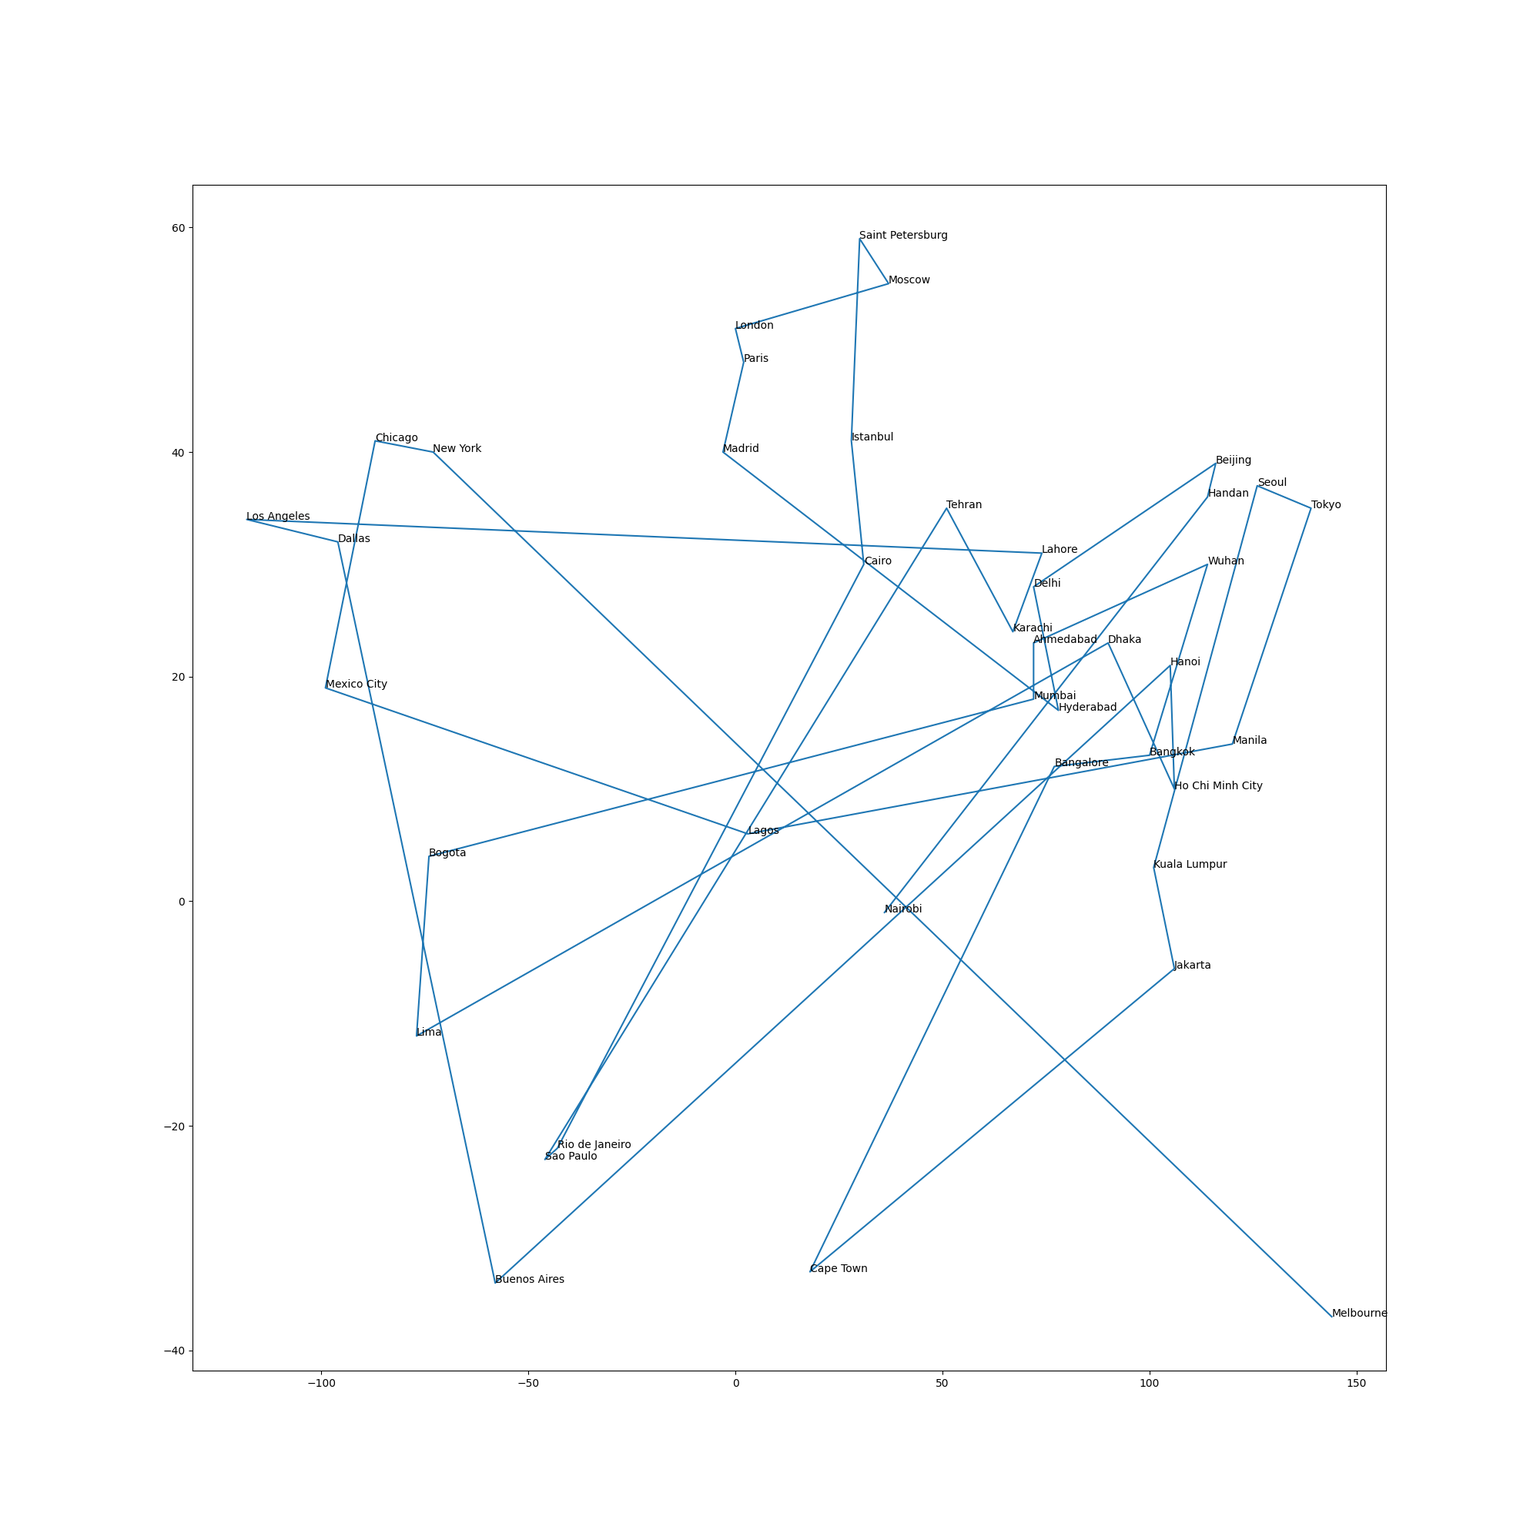
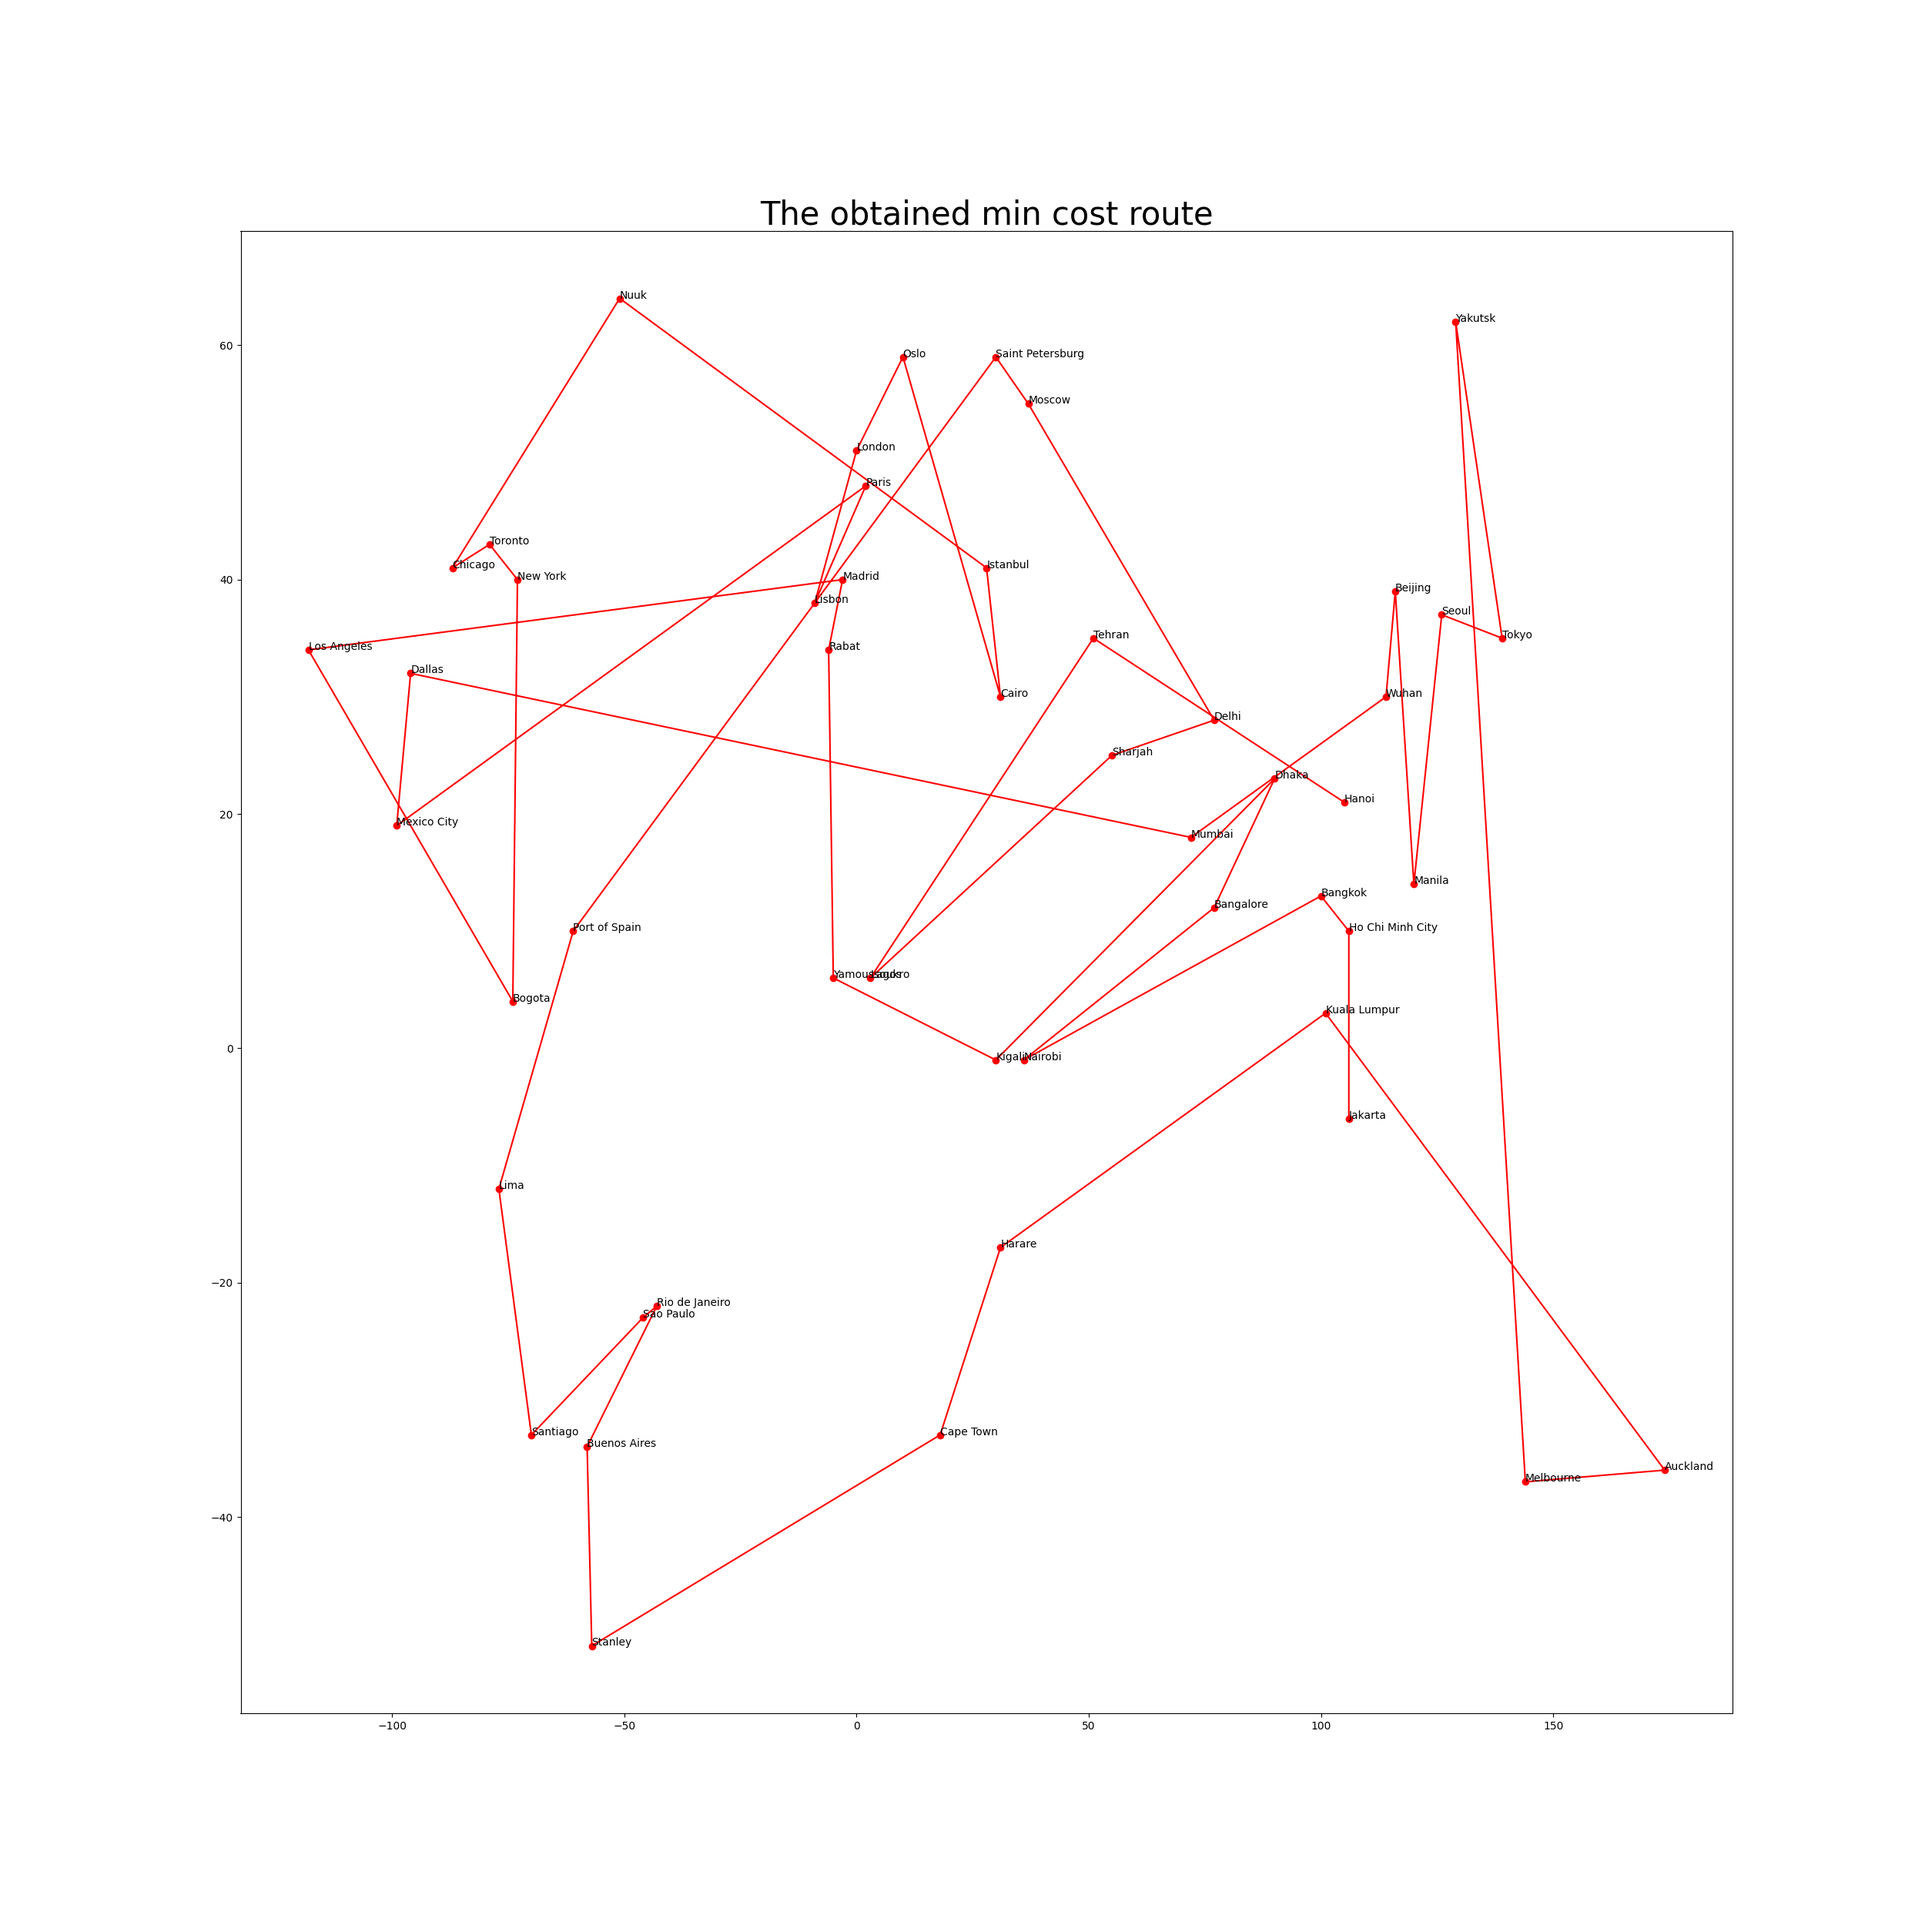
finalised

diff --git a/main.py b/main.py
@@ -4,8 +4,8 @@ from models import City
 from plot import plot_cities, plot_cost, plot_route
 import copy
 
-EPOCHS = 5000
-CONVERGENCE_VALUE = 20
+EPOCHS = 2500
+CONVERGENCE_VALUE = 12
 def main():
     """
     Main function
@@ -13,51 +13,56 @@ def main():
     src = City("Delhi",int(72.33),int(28.66))
     # Get input from file
     input_data = getInputFromFile()
-    # Generate random population
-    population = generate_random_population(INIT_POPULATION_SIZE,input_data,src)
-    # Print population with probabilities
-    probs = fitness_function(population)
-    maxx = max(probs)
-    # for i in range(len(probs)):
-    #     if probs[i]==maxx:
-            # print(population[i])
-            # plot_cities(population[i])
-    # print(probs)
-    # print(population)
-    # print(select_parents(population,probs))
-    # given fitness values, population 
-    # select parents and produce new population until termination condition is met
-    costs = []
-    last_costs = [None]*CONVERGENCE_VALUE
-    k = 0
-    for i in range(EPOCHS):
-        if i > CONVERGENCE_VALUE:
-            if checkConvergence(last_costs):
-                print(population[idx])
-                # print(population)
-                plot_cost([j for j in range(k)],costs)
-                plot_route(population[idx])
-                # print(k)
-                # print(costs)
-                break
-        children = generateChildPop(copy.deepcopy(population),probs,src)
-        # for p in children:
-        #     if p[0]!=src:
-        #         print("IN LOOP")
-        #         print(population)
-        population = copy.deepcopy(children)
-        costList = list(map(fitness_function_calc,copy.deepcopy(children)))
-        minCost = min(costList)
-        idx = costList.index(minCost)
-        costs.append(minCost)
-        print("epoch {0}, fitness - {1}, {2}".format(i,max(fitness_function(copy.deepcopy(children))),minCost))
-        last_costs[i%CONVERGENCE_VALUE] = minCost
-        k+=1
-    # print(population[idx])
-    # print(population)
-    plot_cost([i for i in range(k)],costs)
-    plot_route(population[idx])
-
+    best_route = []
+    best_cost = 9999999999
+    for run in range(5):
+        print("RUN1")
+        # Generate random population
+        population = generate_random_population(INIT_POPULATION_SIZE,input_data,src)
+        # Print population with probabilities
+        probs = fitness_function(population)
+        # maxx = max(probs)
+        # for i in range(len(probs)):
+        #     if probs[i]==maxx:
+                # print(population[i])
+                # plot_cities(population[i])
+        # print(probs)
+        # print(population)
+        # print(select_parents(population,probs))
+        # given fitness values, population 
+        # select parents and produce new population until termination condition is met
+        costs = []
+        last_costs = [None]*CONVERGENCE_VALUE
+        k = 0
+        for i in range(EPOCHS):
+            if i > CONVERGENCE_VALUE:
+                if checkConvergence(last_costs): 
+                    # plot_cost([j for j in range(k)],costs)
+                    # plot_route(population[idx])
+                    if best_cost> minCost:
+                        best_cost = minCost
+                        best_route = population[idx]
+                        plot_cost([i for i in range(k)],costs)
+                    break
+            children = generateChildPop(copy.deepcopy(population),probs,src)
+            population = copy.deepcopy(children)
+            costList = list(map(fitness_function_calc,copy.deepcopy(children)))
+            minCost = min(costList)
+            idx = costList.index(minCost)
+            costs.append(minCost)
+            print("epoch {0}, fitness - {1}, {2}".format(i,max(fitness_function(copy.deepcopy(children))),minCost))
+            last_costs[i%CONVERGENCE_VALUE] = minCost
+            k+=1
+            if best_cost> minCost:
+                best_cost = minCost
+                best_route = population[idx]
+                plot_cost([i for i in range(k)],costs)
+        # print(population[idx])
+        # print(population)
+        
+    print(best_cost)
+    print(best_route)
+    plot_route(best_route)
     
 if __name__=="__main__":
     main()

diff --git a/genetic_algo.py b/genetic_algo.py
@@ -5,8 +5,8 @@ import random
 import copy
 import statistics
 
-INIT_POPULATION_SIZE = 20
-MUTATION_PROB = 0.7
+INIT_POPULATION_SIZE = 8
+MUTATION_PROB = 0.8
 CROSSOVER_PROB = 0.5
 
 def select_parents(population,fitness,src):
@@ -22,8 +22,11 @@ def select_parents(population,fitness,src):
         #     print("\n")
         #     print(population)
         #     # exit(0)
-        # while(parent_pair[0] == parent_pair[1]):
-        #     parent_pair = random.choices(population,weights=fitness,k=2)
+        # if(parent_pair[0] == parent_pair[1]):
+        #     # parent_pair[1] = random.choices(population,weights=fitness,k=1)[0]
+        #     i = random.randint(0,len(parent_pair[0])-1)
+        #     j = random.randint(0,len(parent_pair[0])-1)
+        #     parent_pair[1][i],parent_pair[1][j] = parent_pair[1][j],parent_pair[1][i]
         parents.append(parent_pair)
     return parents
 
@@ -191,10 +194,6 @@ def crossoverPairWise(parents,src):
                             child2[x] = j
                             break
                     break
-        # if child1[0]!=src or child2[0]!=src:
-        #     print("HERE crossover")
-        #     print(parents)
-        #     exit(0)
                 
         return [child1,child2]
     else:
@@ -220,7 +219,6 @@ def fitness_function(population):
 
     # scale it between 0 to 1
     sum_weights = sum(fitness_values)
-    # print(weights)
     fitness_values_scaled = [(w / sum_weights) for w in fitness_values]  # Normalize weights
     return fitness_values_scaled
     
@@ -234,17 +232,7 @@ def generate_random_population(size,city_list,src):
     population = []
     for i in range(size):
         route = generate_random_route(city_list)
-        route.remove(src) 
-        route.insert(0,src) # add the source city at the beginning
-        # if route[0]!=src:
-        #     print("HERE generate random population")
-        #     print(route)
-        #     exit(0)
         population.append(route)
-    # print(population)
-    # for r in population:
-    #     if r[0]!=src:
-    #         print("IN RANDOM")
     return population
 
 def getTopQuarter(parentPop,fitnessValues):
@@ -259,47 +247,33 @@ def getTopQuarter(parentPop,fitnessValues):
 def generateChildPop(parentPop,fitnessValues,src):
     childPop = []
     flag=0
-    elitePopulation = getTopQuarter(parentPop,fitnessValues)
+    elitePopulation = getTopQuarter(parentPop,fitnessValues) # get top quarter of the population
     # elitePopulation = [fitnessValues,parentPop]
     for i in range(INIT_POPULATION_SIZE//2):
         parents = select_parents(copy.deepcopy(elitePopulation[1]),elitePopulation[0],src)
         children = heuristicBasedCrossover(copy.deepcopy(parents[i]),src)
-        # children = simpleCrossover(copy.deepcopy(parents[i]),src)
-        # if children[0][0]!=src or children[1][0]!=src:
-        #     print("HERE generate child pop")
-        #     print(children)
-        #     exit(0)
         childrenMutated1 = mutate(copy.deepcopy(children[0]))
         childrenMutated2 = mutate(copy.deepcopy(children[1]))
         childPop.extend([childrenMutated1,childrenMutated2])
-    # for p in childPop:
-    #     if p[0]!=src:
-    #         print("IN GENERATE CHILD POP\n")
-    #         flag=1
-    #         print(childPop)
     return childPop
 
 
 
 
 def mutate(route):
-
     prob = random.random()
     if prob<MUTATION_PROB:
         # print("Mutation occured")
         nums = random.sample(range(0,len(route)-1),2)
         a,b = nums
         if route[a].distanceFrom(route[a+1]) + route[b].distanceFrom(route[b+1]) >  route[a].distanceFrom(route[b]) + route[a+1].distanceFrom(route[b+1]):
-            # if i==0 or j==0:
-            #     print("NOOOOOOOOO")
             route[b],route[a+1] = route[a+1],route[b]
-            # print("mutated")
     return route 
 
 
 def checkConvergence(costs):
     std_dev = statistics.stdev(costs)
-    if std_dev < 0.01:
+    if std_dev < 1:
         return True
     else:
         return False

diff --git a/plot.py b/plot.py
@@ -15,19 +15,44 @@ def plot_cities(cities):
     plt.scatter(np.array(X), np.array(Y), s=10)
     for i, name in enumerate(names):
         plt.annotate(name, (X[i], Y[i]))
+    plt.title("Location of cities",fontsize=30)
     plt.savefig('cities.png')
+    plt.clf()
 
-def plot_cost(X,Y):
-    fig = plt.figure(figsize=(20, 20))
-    plt.plot(X,Y)
+def plot_cost(epochs,costs):
+    fig = plt.figure(figsize=(10, 10))
+    MOVING = 20
+    temp = costs[:MOVING]
+    avgs = [] + temp
+    # avgs.append(np.mean(temp))
+    for i in range(MOVING, len(costs)):
+        temp.pop(0)
+        temp.append(costs[i])
+        avgs.append(np.mean(temp))
+    # print(avgs)
+    plt.plot(epochs,avgs,linestyle='--',color='r', label='{0}-epoch moving average'.format(MOVING))
+    plt.plot(costs)
+    plt.title("Cost graph of TSP (Cost vs epochs)")
+    plt.xlabel("Number of epochs")
+    plt.ylabel("Cost of the tour")
     plt.savefig('cost.png')
+    plt.clf()
+    fig = plt.figure(figsize=(10, 10))
+    plt.plot(epochs,avgs,linestyle='--',color='r', label='{0}-epoch moving average'.format(MOVING))
+    plt.title("Moving avg graph of TSP (AVG vs epochs)")
+    plt.xlabel("Number of epochs")
+    plt.ylabel("Cost of the tour")
+    plt.savefig('avg.png')
+    plt.clf()
 
 def plot_route(route):
     X = [r.getX() for r in route]
     Y = [r.getY() for r in route]
     names = [r.name for r in route]
-    fig = plt.figure(figsize=(20, 20))
-    plt.plot(X,Y)
+    fig = plt.figure(figsize=(25, 25))
+    plt.plot(X,Y, marker='o', color='r')
+    plt.title("The obtained min cost route",fontsize=30)
     for i, name in enumerate(names):
         plt.annotate(name, (X[i], Y[i]))
     plt.savefig('route.png')
+    plt.clf()
